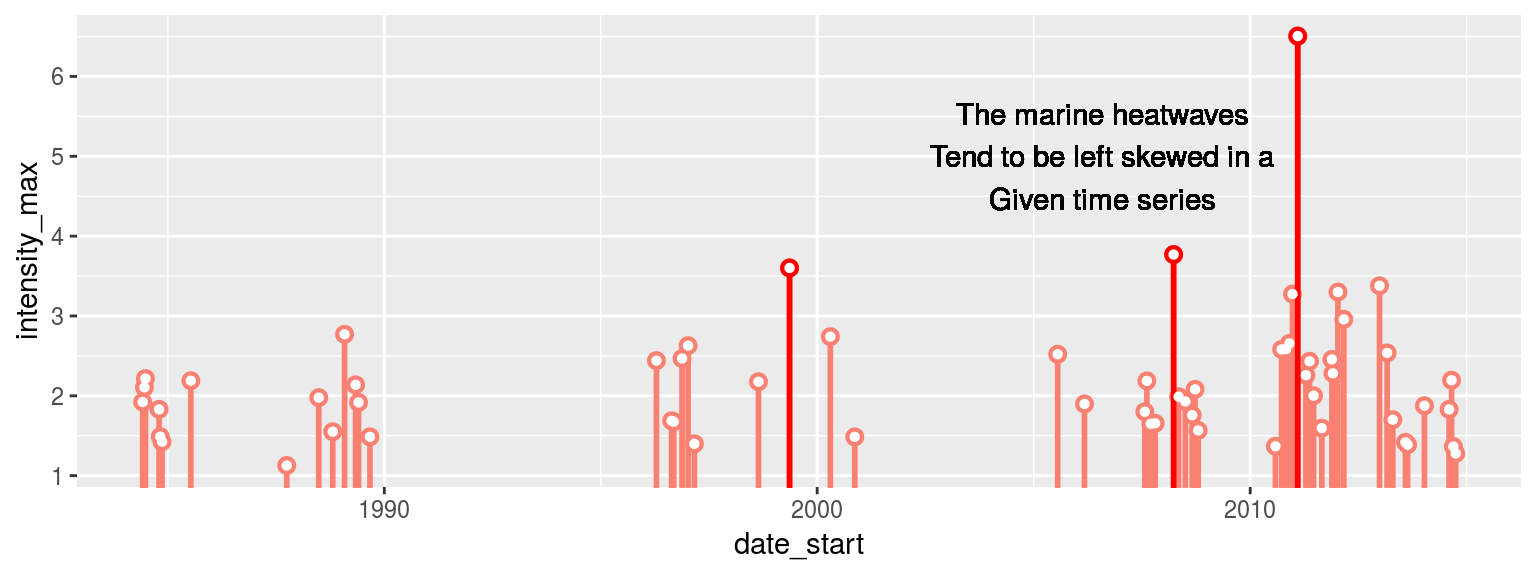
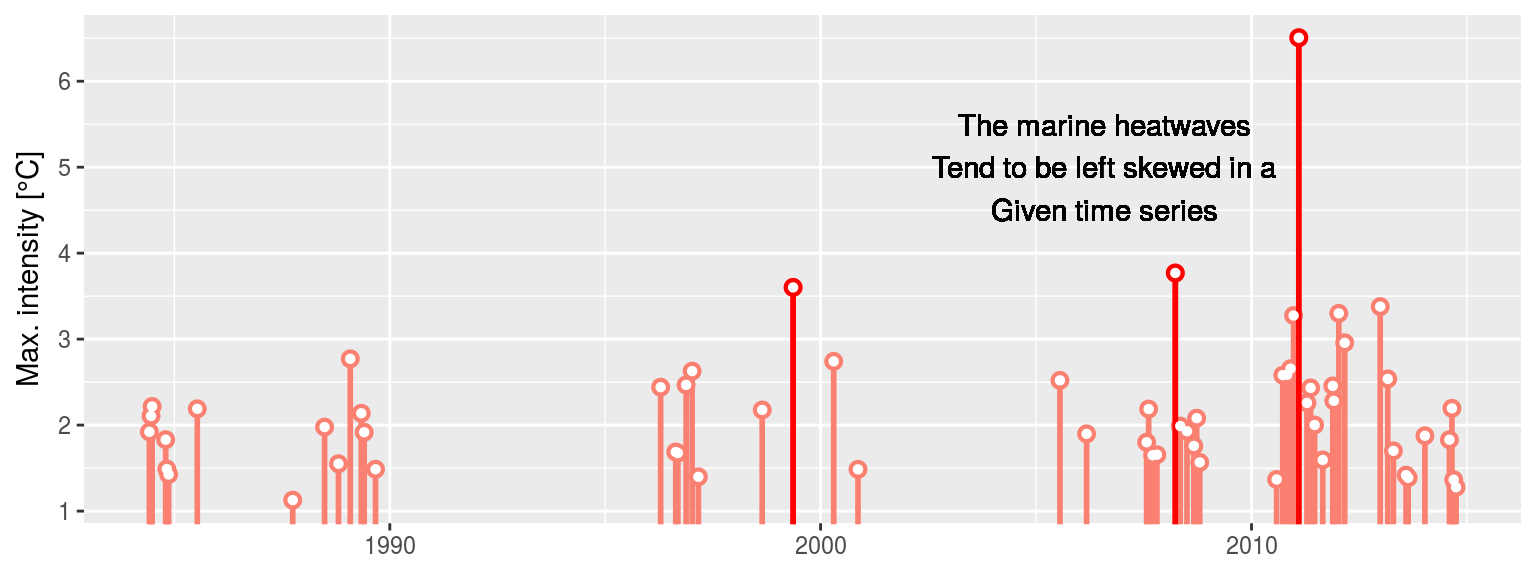
Updated one figure in a vignette

diff --git a/docs/reference/geom_lolli.html b/docs/reference/geom_lolli.html
@@ -253,7 +253,7 @@ are in bold):</p><ul>
   better as a parameter for this function because it is set to use discrete values.
   One may provide continuous values to <code>colour_n</code> but remember that one may
   not provide multiple continuous or discrete scales to a single ggplot2 object.
-  Therefore, if one provides a continuous value to <code><a href='http://www.rdocumentation.org/packages/ggplot2/topics/aes'>aes(colour)</a></code>, the values
+  Therefore, if one provides a continuous value to <code><a href='ggplot2.tidyverse.org/reference/aes.html'>aes(colour)</a></code>, the values
   supplied to <code>colour_n</code> must be discrete. <code>ggplot2</code> will attempt to
   do this automatically.</p></li>
 </ul>
@@ -272,22 +272,22 @@ are in bold):</p><ul>
 
 <span class='co'># Height of lollis represent event durations and their colours</span>
 <span class='co'># are mapped to the events' cumulative intensity:</span>
-<span class='fu'><a href='http://www.rdocumentation.org/packages/ggplot2/topics/ggplot'>ggplot</a></span>(<span class='no'>mhw</span>, <span class='fu'><a href='http://www.rdocumentation.org/packages/ggplot2/topics/aes'>aes</a></span>(<span class='kw'>x</span> <span class='kw'>=</span> <span class='no'>date_peak</span>, <span class='kw'>y</span> <span class='kw'>=</span> <span class='no'>duration</span>)) +
-  <span class='fu'>geom_lolli</span>(<span class='fu'><a href='http://www.rdocumentation.org/packages/ggplot2/topics/aes'>aes</a></span>(<span class='kw'>colour</span> <span class='kw'>=</span> <span class='no'>intensity_cumulative</span>)) +
-  <span class='fu'><a href='http://www.rdocumentation.org/packages/ggplot2/topics/scale_brewer'>scale_color_distiller</a></span>(<span class='kw'>palette</span> <span class='kw'>=</span> <span class='st'>"Spectral"</span>, <span class='kw'>name</span> <span class='kw'>=</span> <span class='st'>"Cumulative \nintensity"</span>) +
-  <span class='fu'><a href='http://www.rdocumentation.org/packages/ggplot2/topics/labs'>xlab</a></span>(<span class='st'>"Date"</span>) + <span class='fu'><a href='http://www.rdocumentation.org/packages/ggplot2/topics/labs'>ylab</a></span>(<span class='st'>"Event duration [days]"</span>)</div><div class='img'><img src='geom_lolli-1.png' alt='' width='700' height='433' /></div><div class='input'>
+<span class='fu'><a href='ggplot2.tidyverse.org/reference/ggplot.html'>ggplot</a></span>(<span class='no'>mhw</span>, <span class='fu'><a href='ggplot2.tidyverse.org/reference/aes.html'>aes</a></span>(<span class='kw'>x</span> <span class='kw'>=</span> <span class='no'>date_peak</span>, <span class='kw'>y</span> <span class='kw'>=</span> <span class='no'>duration</span>)) +
+  <span class='fu'>geom_lolli</span>(<span class='fu'><a href='ggplot2.tidyverse.org/reference/aes.html'>aes</a></span>(<span class='kw'>colour</span> <span class='kw'>=</span> <span class='no'>intensity_cumulative</span>)) +
+  <span class='fu'><a href='ggplot2.tidyverse.org/reference/scale_brewer.html'>scale_color_distiller</a></span>(<span class='kw'>palette</span> <span class='kw'>=</span> <span class='st'>"Spectral"</span>, <span class='kw'>name</span> <span class='kw'>=</span> <span class='st'>"Cumulative \nintensity"</span>) +
+  <span class='fu'><a href='ggplot2.tidyverse.org/reference/labs.html'>xlab</a></span>(<span class='st'>"Date"</span>) + <span class='fu'><a href='ggplot2.tidyverse.org/reference/labs.html'>ylab</a></span>(<span class='st'>"Event duration [days]"</span>)</div><div class='img'><img src='geom_lolli-1.png' alt='' width='700' height='433' /></div><div class='input'>
 <span class='co'># Height of lollis represent event durations and the top three (longest)</span>
 <span class='co'># lollis are highlighted in red:</span>
-<span class='fu'><a href='http://www.rdocumentation.org/packages/ggplot2/topics/ggplot'>ggplot</a></span>(<span class='no'>mhw</span>, <span class='fu'><a href='http://www.rdocumentation.org/packages/ggplot2/topics/aes'>aes</a></span>(<span class='kw'>x</span> <span class='kw'>=</span> <span class='no'>date_peak</span>, <span class='kw'>y</span> <span class='kw'>=</span> <span class='no'>duration</span>)) +
+<span class='fu'><a href='ggplot2.tidyverse.org/reference/ggplot.html'>ggplot</a></span>(<span class='no'>mhw</span>, <span class='fu'><a href='ggplot2.tidyverse.org/reference/aes.html'>aes</a></span>(<span class='kw'>x</span> <span class='kw'>=</span> <span class='no'>date_peak</span>, <span class='kw'>y</span> <span class='kw'>=</span> <span class='no'>duration</span>)) +
   <span class='fu'>geom_lolli</span>(<span class='kw'>n</span> <span class='kw'>=</span> <span class='fl'>3</span>, <span class='kw'>colour_n</span> <span class='kw'>=</span> <span class='st'>"red"</span>) +
-  <span class='fu'><a href='http://www.rdocumentation.org/packages/ggplot2/topics/scale_brewer'>scale_color_distiller</a></span>(<span class='kw'>palette</span> <span class='kw'>=</span> <span class='st'>"Spectral"</span>) +
-  <span class='fu'><a href='http://www.rdocumentation.org/packages/ggplot2/topics/labs'>xlab</a></span>(<span class='st'>"Peak date"</span>) + <span class='fu'><a href='http://www.rdocumentation.org/packages/ggplot2/topics/labs'>ylab</a></span>(<span class='st'>"Event duration [days]"</span>)</div><div class='img'><img src='geom_lolli-2.png' alt='' width='700' height='433' /></div><div class='input'>
+  <span class='fu'><a href='ggplot2.tidyverse.org/reference/scale_brewer.html'>scale_color_distiller</a></span>(<span class='kw'>palette</span> <span class='kw'>=</span> <span class='st'>"Spectral"</span>) +
+  <span class='fu'><a href='ggplot2.tidyverse.org/reference/labs.html'>xlab</a></span>(<span class='st'>"Peak date"</span>) + <span class='fu'><a href='ggplot2.tidyverse.org/reference/labs.html'>ylab</a></span>(<span class='st'>"Event duration [days]"</span>)</div><div class='img'><img src='geom_lolli-2.png' alt='' width='700' height='433' /></div><div class='input'>
 <span class='co'># Because this is a proper geom, any number of ill-advised things</span>
 <span class='co'># may be done with it:</span>
-<span class='fu'><a href='http://www.rdocumentation.org/packages/ggplot2/topics/ggplot'>ggplot</a></span>(<span class='no'>mhw</span>, <span class='fu'><a href='http://www.rdocumentation.org/packages/ggplot2/topics/aes'>aes</a></span>(<span class='kw'>x</span> <span class='kw'>=</span> <span class='no'>event_no</span>, <span class='kw'>y</span> <span class='kw'>=</span> <span class='no'>intensity_max</span>)) +
-  <span class='fu'>geom_lolli</span>(<span class='kw'>shape</span> <span class='kw'>=</span> <span class='fl'>5</span>, <span class='fu'><a href='http://www.rdocumentation.org/packages/ggplot2/topics/aes'>aes</a></span>(<span class='kw'>colour</span> <span class='kw'>=</span> <span class='no'>rate_onset</span>), <span class='kw'>linetype</span> <span class='kw'>=</span> <span class='st'>"dotted"</span>) +
-  <span class='fu'><a href='http://www.rdocumentation.org/packages/ggplot2/topics/scale_brewer'>scale_color_distiller</a></span>(<span class='kw'>palette</span> <span class='kw'>=</span> <span class='st'>"RdYlGn"</span>, <span class='kw'>name</span> <span class='kw'>=</span> <span class='st'>"Rate \nonset"</span>) +
-  <span class='fu'><a href='http://www.rdocumentation.org/packages/ggplot2/topics/labs'>xlab</a></span>(<span class='st'>"Event number"</span>) + <span class='fu'><a href='http://www.rdocumentation.org/packages/ggplot2/topics/labs'>ylab</a></span>(<span class='st'>"Max intensity [degree C]"</span>)</div><div class='img'><img src='geom_lolli-3.png' alt='' width='700' height='433' /></div><div class='input'>
+<span class='fu'><a href='ggplot2.tidyverse.org/reference/ggplot.html'>ggplot</a></span>(<span class='no'>mhw</span>, <span class='fu'><a href='ggplot2.tidyverse.org/reference/aes.html'>aes</a></span>(<span class='kw'>x</span> <span class='kw'>=</span> <span class='no'>event_no</span>, <span class='kw'>y</span> <span class='kw'>=</span> <span class='no'>intensity_max</span>)) +
+  <span class='fu'>geom_lolli</span>(<span class='kw'>shape</span> <span class='kw'>=</span> <span class='fl'>5</span>, <span class='fu'><a href='ggplot2.tidyverse.org/reference/aes.html'>aes</a></span>(<span class='kw'>colour</span> <span class='kw'>=</span> <span class='no'>rate_onset</span>), <span class='kw'>linetype</span> <span class='kw'>=</span> <span class='st'>"dotted"</span>) +
+  <span class='fu'><a href='ggplot2.tidyverse.org/reference/scale_brewer.html'>scale_color_distiller</a></span>(<span class='kw'>palette</span> <span class='kw'>=</span> <span class='st'>"RdYlGn"</span>, <span class='kw'>name</span> <span class='kw'>=</span> <span class='st'>"Rate \nonset"</span>) +
+  <span class='fu'><a href='ggplot2.tidyverse.org/reference/labs.html'>xlab</a></span>(<span class='st'>"Event number"</span>) + <span class='fu'><a href='ggplot2.tidyverse.org/reference/labs.html'>ylab</a></span>(<span class='st'>"Max intensity [degree C]"</span>)</div><div class='img'><img src='geom_lolli-3.png' alt='' width='700' height='433' /></div><div class='input'>
 </div></pre>
   </div>
   <div class="col-md-3 hidden-xs hidden-sm" id="sidebar">

diff --git a/docs/reference/geom_flame.html b/docs/reference/geom_flame.html
@@ -278,11 +278,11 @@ doi: 10.1016/j.pocean.2015.12.014</p>
 
 <span class='fu'>library</span>(<span class='no'>ggplot2</span>)
 
-<span class='fu'><a href='http://www.rdocumentation.org/packages/ggplot2/topics/ggplot'>ggplot</a></span>(<span class='no'>mhw</span>, <span class='fu'><a href='http://www.rdocumentation.org/packages/ggplot2/topics/aes'>aes</a></span>(<span class='kw'>x</span> <span class='kw'>=</span> <span class='no'>t</span>, <span class='kw'>y</span> <span class='kw'>=</span> <span class='no'>temp</span>)) +
-  <span class='fu'>geom_flame</span>(<span class='fu'><a href='http://www.rdocumentation.org/packages/ggplot2/topics/aes'>aes</a></span>(<span class='kw'>y2</span> <span class='kw'>=</span> <span class='no'>thresh</span>)) +
-  <span class='fu'><a href='http://www.rdocumentation.org/packages/ggplot2/topics/geom_text'>geom_text</a></span>(<span class='fu'><a href='http://www.rdocumentation.org/packages/ggplot2/topics/aes'>aes</a></span>(<span class='kw'>x</span> <span class='kw'>=</span> <span class='fu'>as.Date</span>(<span class='st'>"2011-02-01"</span>), <span class='kw'>y</span> <span class='kw'>=</span> <span class='fl'>28</span>,
+<span class='fu'><a href='ggplot2.tidyverse.org/reference/ggplot.html'>ggplot</a></span>(<span class='no'>mhw</span>, <span class='fu'><a href='ggplot2.tidyverse.org/reference/aes.html'>aes</a></span>(<span class='kw'>x</span> <span class='kw'>=</span> <span class='no'>t</span>, <span class='kw'>y</span> <span class='kw'>=</span> <span class='no'>temp</span>)) +
+  <span class='fu'>geom_flame</span>(<span class='fu'><a href='ggplot2.tidyverse.org/reference/aes.html'>aes</a></span>(<span class='kw'>y2</span> <span class='kw'>=</span> <span class='no'>thresh</span>)) +
+  <span class='fu'><a href='ggplot2.tidyverse.org/reference/geom_text.html'>geom_text</a></span>(<span class='fu'><a href='ggplot2.tidyverse.org/reference/aes.html'>aes</a></span>(<span class='kw'>x</span> <span class='kw'>=</span> <span class='fu'>as.Date</span>(<span class='st'>"2011-02-01"</span>), <span class='kw'>y</span> <span class='kw'>=</span> <span class='fl'>28</span>,
             <span class='kw'>label</span> <span class='kw'>=</span> <span class='st'>"That's not a heatwave.\nThis, is a heatwave."</span>)) +
-  <span class='fu'><a href='http://www.rdocumentation.org/packages/ggplot2/topics/labs'>xlab</a></span>(<span class='st'>"Date"</span>) + <span class='fu'><a href='http://www.rdocumentation.org/packages/ggplot2/topics/labs'>ylab</a></span>(<span class='fu'>expression</span>(<span class='fu'>paste</span>(<span class='st'>"Temperature ["</span>, <span class='no'>degree</span>, <span class='st'>"C]"</span>)))</div><div class='img'><img src='geom_flame-1.png' alt='' width='700' height='433' /></div><div class='input'>
+  <span class='fu'><a href='ggplot2.tidyverse.org/reference/labs.html'>xlab</a></span>(<span class='st'>"Date"</span>) + <span class='fu'><a href='ggplot2.tidyverse.org/reference/labs.html'>ylab</a></span>(<span class='fu'>expression</span>(<span class='fu'>paste</span>(<span class='st'>"Temperature ["</span>, <span class='no'>degree</span>, <span class='st'>"C]"</span>)))</div><div class='img'><img src='geom_flame-1.png' alt='' width='700' height='433' /></div><div class='input'>
 </div></pre>
   </div>
   <div class="col-md-3 hidden-xs hidden-sm" id="sidebar">

diff --git a/docs/articles/detection_and_visualisation.html b/docs/articles/detection_and_visualisation.html
@@ -113,7 +113,7 @@
       <h1>Detection and Visualisation</h1>
                         <h4 class="author">AJ Smit and Robert W Schlegel</h4>
             
-            <h4 class="date">2018-10-26</h4>
+            <h4 class="date">2018-11-01</h4>
       
       <small class="dont-index">Source: <a href="https://github.com/robwschlegel/heatwaveR/blob/master/vignettes/detection_and_visualisation.Rmd"><code>vignettes/detection_and_visualisation.Rmd</code></a></small>
       <div class="hidden name"><code>detection_and_visualisation.Rmd</code></div>
@@ -178,7 +178,8 @@ mhw2 &lt;-<span class="st"> </span>mhw<span class="op">$</span>clim <span class=
 <div class="sourceCode"><pre class="sourceCode r"><code class="sourceCode r"><span class="kw">ggplot</span>(mhw<span class="op">$</span>event, <span class="kw">aes</span>(<span class="dt">x =</span> date_start, <span class="dt">y =</span> intensity_max)) <span class="op">+</span>
 <span class="st">  </span><span class="kw"><a href="../reference/geom_lolli.html">geom_lolli</a></span>(<span class="dt">colour =</span> <span class="st">"salmon"</span>, <span class="dt">colour_n =</span> <span class="st">"red"</span>, <span class="dt">n =</span> <span class="dv">3</span>) <span class="op">+</span>
 <span class="st">  </span><span class="kw">geom_text</span>(<span class="dt">colour =</span> <span class="st">"black"</span>, <span class="kw">aes</span>(<span class="dt">x =</span> <span class="kw">as.Date</span>(<span class="st">"2006-08-01"</span>), <span class="dt">y =</span> <span class="dv">5</span>,
-                <span class="dt">label =</span> <span class="st">"The marine heatwaves</span><span class="ch">\n</span><span class="st">Tend to be left skewed in a</span><span class="ch">\n</span><span class="st">Given time series"</span>))</code></pre></div>
+                <span class="dt">label =</span> <span class="st">"The marine heatwaves</span><span class="ch">\n</span><span class="st">Tend to be left skewed in a</span><span class="ch">\n</span><span class="st">Given time series"</span>)) <span class="op">+</span>
+<span class="st">  </span><span class="kw">labs</span>(<span class="dt">y =</span> <span class="kw">expression</span>(<span class="kw">paste</span>(<span class="st">"Max. intensity ["</span>, degree, <span class="st">"C]"</span>)), <span class="dt">x =</span> <span class="ot">NULL</span>)</code></pre></div>
 <p><img src="detection_and_visualisation_files/figure-html/fig-example3-2.png" width="768"><!-- ![](vignettes/fig-example3-1.png) --><!-- ![](vignettes/fig-example3-2.png) --></p>
 <p>The default output of these function may not be to your liking. If so, not to worry. As <strong><code>ggplot2</code></strong> <code>geoms</code>, they are highly malleable. For example, if we were to choose to reproduce the format of the MHWs as seen in Hobday et al. (2016), the code would look something like this:</p>
 <div class="sourceCode"><pre class="sourceCode r"><code class="sourceCode r"><span class="co"># It is necessary to give geom_flame() at least one row on either side of the event in order to calculate the polygon corners smoothly</span>

diff --git a/docs/reference/block_average.html b/docs/reference/block_average.html
@@ -275,10 +275,10 @@ doi: 10.1016/j.pocean.2015.12.014</p>
 #&gt; </div><div class='input'>
 <span class='fu'>library</span>(<span class='no'>ggplot2</span>)
 
-<span class='fu'><a href='http://www.rdocumentation.org/packages/ggplot2/topics/ggplot'>ggplot</a></span>(<span class='kw'>data</span> <span class='kw'>=</span> <span class='no'>out</span>, <span class='fu'><a href='http://www.rdocumentation.org/packages/ggplot2/topics/aes'>aes</a></span>(<span class='kw'>x</span> <span class='kw'>=</span> <span class='no'>year</span>, <span class='kw'>y</span> <span class='kw'>=</span> <span class='no'>count</span>)) +
-  <span class='fu'><a href='http://www.rdocumentation.org/packages/ggplot2/topics/geom_point'>geom_point</a></span>(<span class='kw'>colour</span> <span class='kw'>=</span> <span class='st'>"salmon"</span>) +
-  <span class='fu'><a href='http://www.rdocumentation.org/packages/ggplot2/topics/geom_path'>geom_line</a></span>() +
-  <span class='fu'><a href='http://www.rdocumentation.org/packages/ggplot2/topics/labs'>labs</a></span>(<span class='kw'>x</span> <span class='kw'>=</span> <span class='kw'>NULL</span>, <span class='kw'>y</span> <span class='kw'>=</span> <span class='st'>"Number of events"</span>)</div><div class='img'><img src='block_average-1.png' alt='' width='700' height='433' /></div><div class='input'>
+<span class='fu'><a href='ggplot2.tidyverse.org/reference/ggplot.html'>ggplot</a></span>(<span class='kw'>data</span> <span class='kw'>=</span> <span class='no'>out</span>, <span class='fu'><a href='ggplot2.tidyverse.org/reference/aes.html'>aes</a></span>(<span class='kw'>x</span> <span class='kw'>=</span> <span class='no'>year</span>, <span class='kw'>y</span> <span class='kw'>=</span> <span class='no'>count</span>)) +
+  <span class='fu'><a href='ggplot2.tidyverse.org/reference/geom_point.html'>geom_point</a></span>(<span class='kw'>colour</span> <span class='kw'>=</span> <span class='st'>"salmon"</span>) +
+  <span class='fu'><a href='ggplot2.tidyverse.org/reference/geom_path.html'>geom_line</a></span>() +
+  <span class='fu'><a href='ggplot2.tidyverse.org/reference/labs.html'>labs</a></span>(<span class='kw'>x</span> <span class='kw'>=</span> <span class='kw'>NULL</span>, <span class='kw'>y</span> <span class='kw'>=</span> <span class='st'>"Number of events"</span>)</div><div class='img'><img src='block_average-1.png' alt='' width='700' height='433' /></div><div class='input'>
 </div></pre>
   </div>
   <div class="col-md-3 hidden-xs hidden-sm" id="sidebar">

diff --git a/docs/news/index.html b/docs/news/index.html
@@ -154,6 +154,25 @@
       <small>Source: <a href='https://github.com/robwschlegel/heatwaveR/blob/master/NEWS.md'><code>NEWS.md</code></a></small>
     </div>
 
+    <div id="heatwaver-0-3-5-2018-11-01" class="section level1">
+<h1 class="page-header">
+<a href="#heatwaver-0-3-5-2018-11-01" class="anchor"></a>heatwaveR 0.3.5 (2018-11-01)<small> Unreleased </small>
+</h1>
+<ul>
+<li>Updated one figure in a vignette</li>
+</ul>
+</div>
+    <div id="heatwaver-0-3-5-2018-10-26" class="section level1">
+<h1 class="page-header">
+<a href="#heatwaver-0-3-5-2018-10-26" class="anchor"></a>heatwaveR 0.3.5 (2018-10-26)<small> Unreleased </small>
+</h1>
+<ul>
+<li>
+<code><a href="../reference/clim_calc.html">clim_calc()</a></code> reinstated to allow for calculation of clims with missing data</li>
+<li>
+<code>var</code> calculations reinstated for documentation issues</li>
+</ul>
+</div>
     <div id="heatwaver-0-3-5-2018-10-20" class="section level1">
 <h1 class="page-header">
 <a href="#heatwaver-0-3-5-2018-10-20" class="anchor"></a>heatwaveR 0.3.5 (2018-10-20)<small> Unreleased </small>
@@ -630,6 +649,8 @@
     <div id="tocnav">
       <h2>Contents</h2>
       <ul class="nav nav-pills nav-stacked">
+        <li><a href="#heatwaver-0-3-5-2018-11-01">0.3.5</a></li>
+        <li><a href="#heatwaver-0-3-5-2018-10-26">0.3.5</a></li>
         <li><a href="#heatwaver-0-3-5-2018-10-20">0.3.5</a></li>
         <li><a href="#heatwaver-0-3-4-2018-10-19">0.3.4</a></li>
         <li><a href="#heatwaver-0-3-4-2018-10-17">0.3.4</a></li>

diff --git a/docs/reference/ts2clm.html b/docs/reference/ts2clm.html
@@ -347,7 +347,20 @@ doi:10.1016/j.pocean.2015.12.014</p>
 #&gt;  8:   8 21.7958 23.2080
 #&gt;  9:   9 21.8217 23.2366
 #&gt; 10:  10 21.8478 23.2649</div><div class='input'>
-
+<span class='co'># Or if one wants the variance column included in the results</span>
+<span class='no'>res_var</span> <span class='kw'>&lt;-</span> <span class='fu'>ts2clm</span>(<span class='no'>sst_WA</span>, <span class='kw'>climatologyPeriod</span> <span class='kw'>=</span> <span class='fu'>c</span>(<span class='st'>"1983-01-01"</span>, <span class='st'>"2012-12-31"</span>),
+                  <span class='kw'>var</span> <span class='kw'>=</span> <span class='fl'>TRUE</span>)
+<span class='no'>res_var</span>[<span class='fl'>1</span>:<span class='fl'>10</span>, ]</div><div class='output co'>#&gt;     doy          t  temp    seas  thresh    var
+#&gt;  1:   1 1982-01-01 20.94 21.6080 22.9605 0.9585
+#&gt;  2:   2 1982-01-02 21.25 21.6348 22.9987 0.9636
+#&gt;  3:   3 1982-01-03 21.38 21.6621 23.0376 0.9684
+#&gt;  4:   4 1982-01-04 21.16 21.6895 23.0771 0.9728
+#&gt;  5:   5 1982-01-05 21.26 21.7169 23.1130 0.9764
+#&gt;  6:   6 1982-01-06 21.61 21.7436 23.1460 0.9797
+#&gt;  7:   7 1982-01-07 21.74 21.7699 23.1775 0.9828
+#&gt;  8:   8 1982-01-08 21.50 21.7958 23.2080 0.9860
+#&gt;  9:   9 1982-01-09 21.40 21.8217 23.2366 0.9884
+#&gt; 10:  10 1982-01-10 21.36 21.8478 23.2649 0.9906</div><div class='input'>
 </div></pre>
   </div>
   <div class="col-md-3 hidden-xs hidden-sm" id="sidebar">

diff --git a/docs/articles/gridded_event_detection.html b/docs/articles/gridded_event_detection.html
@@ -113,7 +113,7 @@
       <h1>Extreme event detection in gridded data</h1>
                         <h4 class="author">AJ Smit</h4>
             
-            <h4 class="date">2018-10-26</h4>
+            <h4 class="date">2018-11-01</h4>
       
       <small class="dont-index">Source: <a href="https://github.com/robwschlegel/heatwaveR/blob/master/vignettes/gridded_event_detection.Rmd"><code>vignettes/gridded_event_detection.Rmd</code></a></small>
       <div class="hidden name"><code>gridded_event_detection.Rmd</code></div>

diff --git a/docs/articles/OISST_preparation.html b/docs/articles/OISST_preparation.html
@@ -113,7 +113,7 @@
       <h1>Retrieval and processing of OISST data</h1>
                         <h4 class="author">AJ Smit</h4>
             
-            <h4 class="date">2018-10-26</h4>
+            <h4 class="date">2018-11-01</h4>
       
       <small class="dont-index">Source: <a href="https://github.com/robwschlegel/heatwaveR/blob/master/vignettes/OISST_preparation.Rmd"><code>vignettes/OISST_preparation.Rmd</code></a></small>
       <div class="hidden name"><code>OISST_preparation.Rmd</code></div>

diff --git a/docs/articles/event_categories.html b/docs/articles/event_categories.html
@@ -113,7 +113,7 @@
       <h1>Event Categories</h1>
                         <h4 class="author">Robert W Schlegel</h4>
             
-            <h4 class="date">2018-10-26</h4>
+            <h4 class="date">2018-11-01</h4>
       
       <small class="dont-index">Source: <a href="https://github.com/robwschlegel/heatwaveR/blob/master/vignettes/event_categories.Rmd"><code>vignettes/event_categories.Rmd</code></a></small>
       <div class="hidden name"><code>event_categories.Rmd</code></div>

diff --git a/docs/articles/complex_clims.html b/docs/articles/complex_clims.html
@@ -113,7 +113,7 @@
       <h1>Complex Climatologies</h1>
                         <h4 class="author">Robert W Schlegel</h4>
             
-            <h4 class="date">2018-10-26</h4>
+            <h4 class="date">2018-11-01</h4>
       
       <small class="dont-index">Source: <a href="https://github.com/robwschlegel/heatwaveR/blob/master/vignettes/complex_clims.Rmd"><code>vignettes/complex_clims.Rmd</code></a></small>
       <div class="hidden name"><code>complex_clims.Rmd</code></div>

diff --git a/docs/articles/exceedance.html b/docs/articles/exceedance.html
@@ -113,7 +113,7 @@
       <h1>The Exceedance Function</h1>
                         <h4 class="author">Robert W Schlegel</h4>
             
-            <h4 class="date">2018-10-26</h4>
+            <h4 class="date">2018-11-01</h4>
       
       <small class="dont-index">Source: <a href="https://github.com/robwschlegel/heatwaveR/blob/master/vignettes/exceedance.Rmd"><code>vignettes/exceedance.Rmd</code></a></small>
       <div class="hidden name"><code>exceedance.Rmd</code></div>

diff --git a/NEWS.md b/NEWS.md
@@ -1,3 +1,7 @@
+# heatwaveR 0.3.5 (2018-11-01)
+
+* Updated one figure in a vignette
+
 # heatwaveR 0.3.5 (2018-10-26)
 
 * `clim_calc()` reinstated to allow for calculation of clims with missing data
